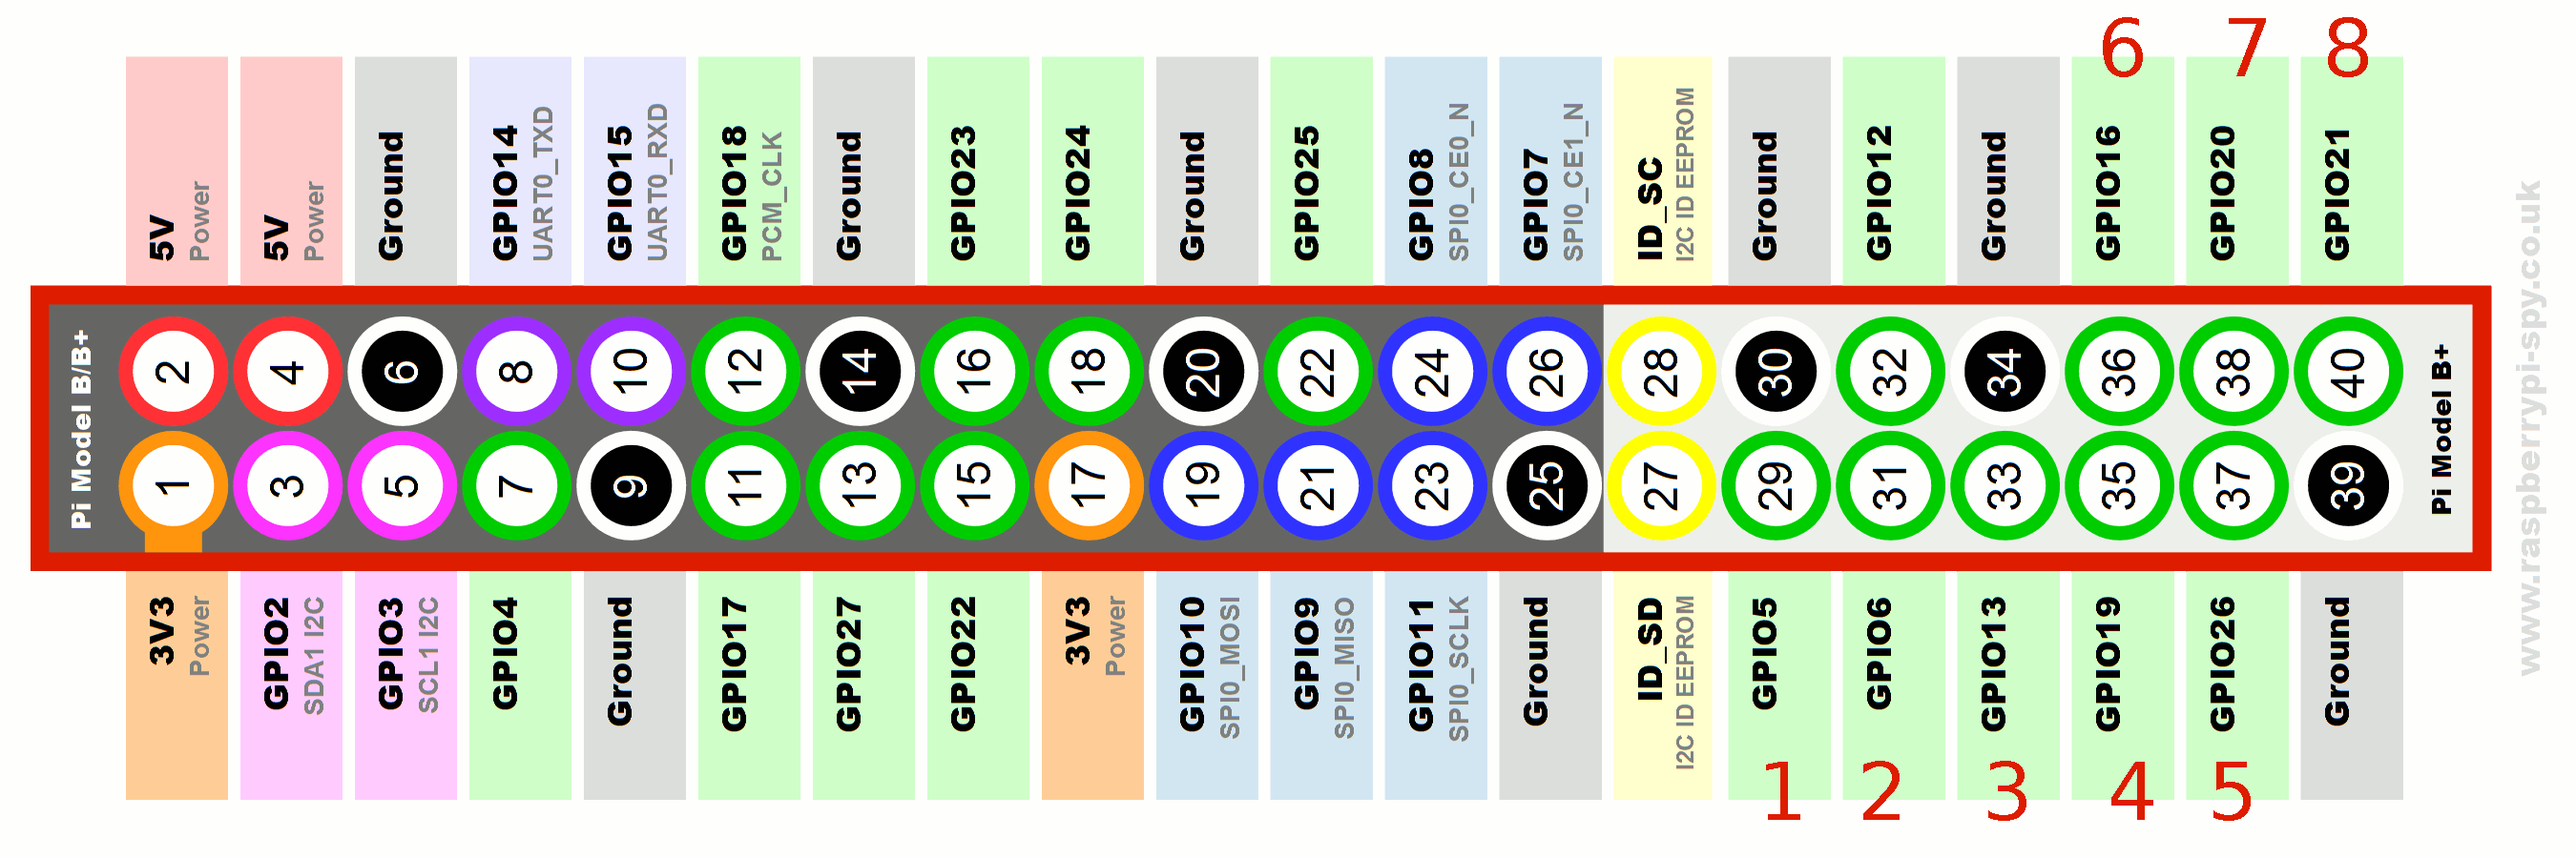
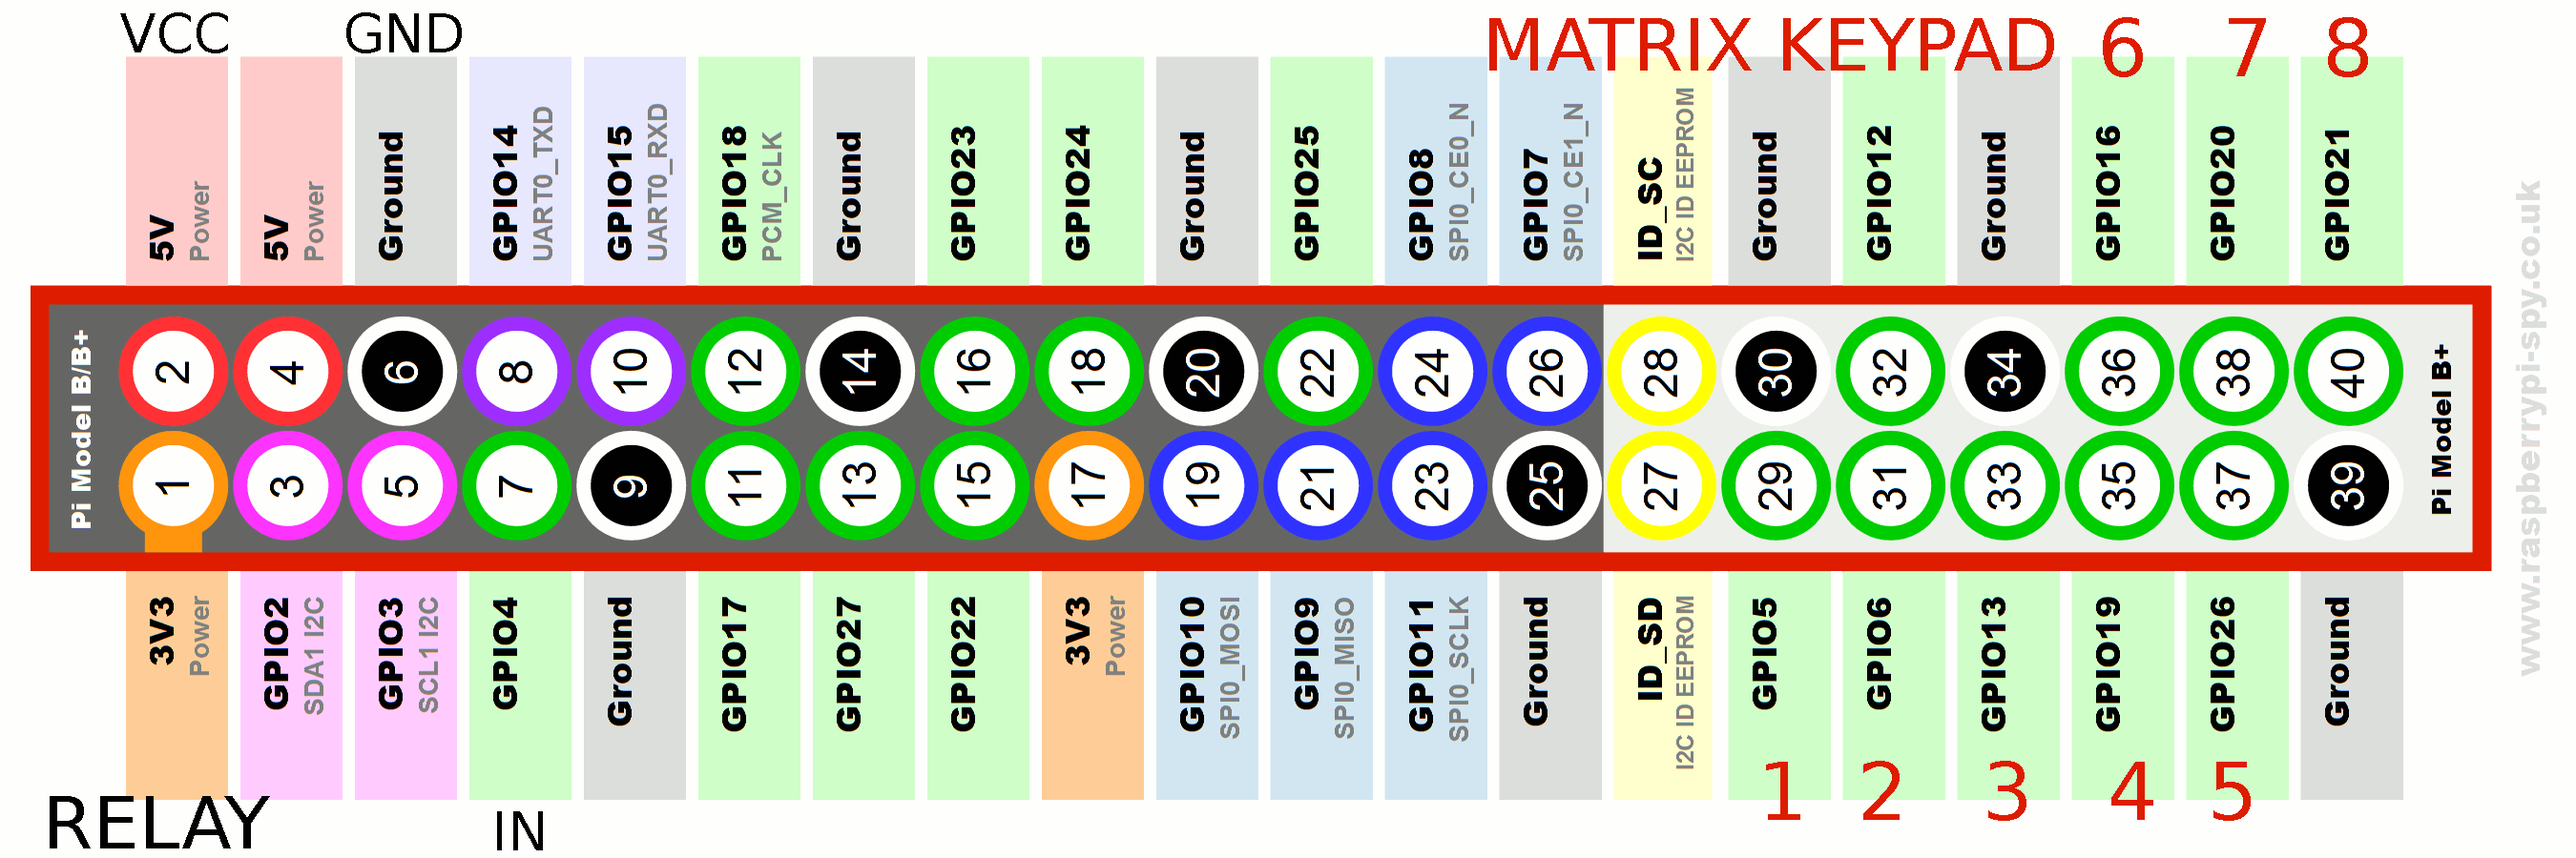
Added Readme and full pinout

diff --git a/README.md b/README.md
@@ -58,3 +58,14 @@ echo "Running at Boot"
 cd /home/pi/trafficFlow/scape/
 python3 video.py Full
 ```
+
+Todas las imagenes y preguntas son intercambiables y agregables
+
+El programa asume que el teclado matricial está conectado en los pines
+
+ROW = [29,31,33,35]
+COL = [37,36,38,40]
+
+Y el relé está en el pin 7, con la numeración de tablero de la raspberry pi como se muestra en la imagen:
+
+![alt text](https://github.com/alvarohurtadobo/scape/blob/master/pinout.png)
